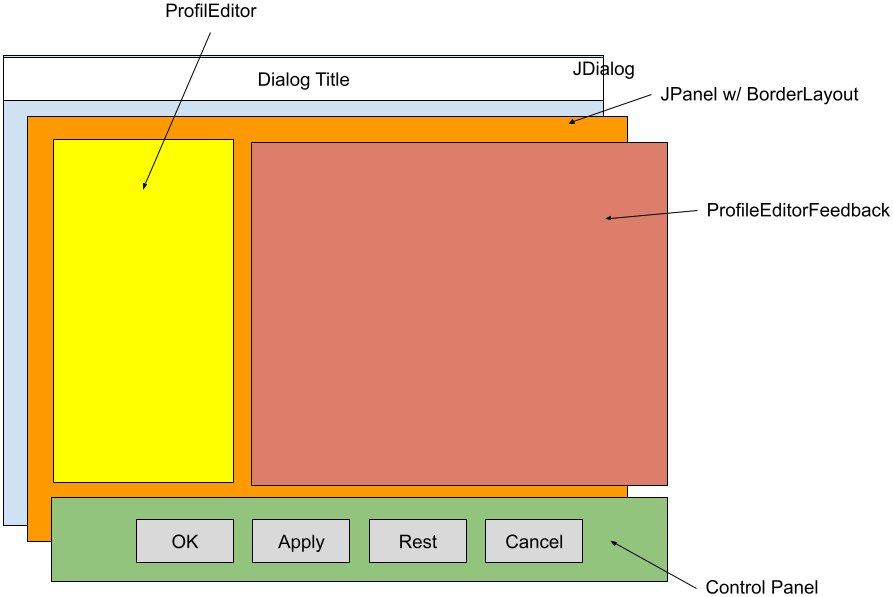
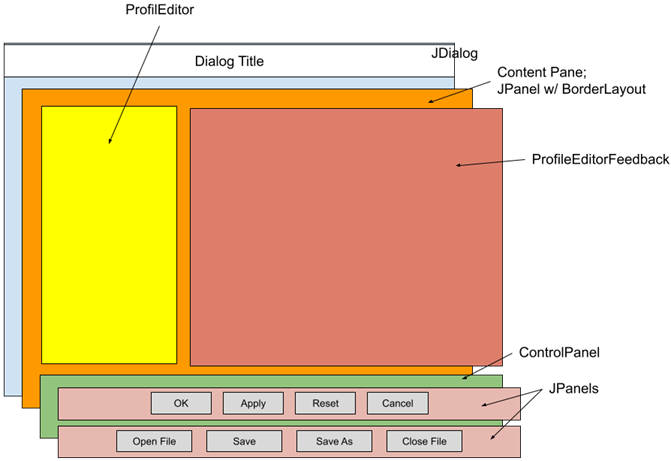
work on ProfileFileMangerTest

diff --git a/Cartesian Plane Part 18/src/main/java/com/acmemail/judah/cartesian_plane/components/ProfileEditorDialog.java b/Cartesian Plane Part 18/src/main/java/com/acmemail/judah/cartesian_plane/components/ProfileEditorDialog.java
@@ -134,7 +134,6 @@ public class ProfileEditorDialog extends JDialog
         cancel.addActionListener( e -> close( JOptionPane.CANCEL_OPTION ) );
         apply.addActionListener( e -> editor.apply() );
         reset.addActionListener( e -> resetProfile() );
-        reset.addActionListener( e -> canvas.repaint() );
 
         panel.add( okay );
         panel.add( apply );
@@ -142,17 +141,6 @@ public class ProfileEditorDialog extends JDialog
         panel.add( cancel );
 
         return panel;
-    }
-    
-    private void resetProfile()
-    {
-        Profile profile = editor.getProfile();
-        File    file    = fileMgr.getCurrFile();
-        if ( file != null )
-            fileMgr.open( file, profile );
-        else
-            profile.reset();
-        editor.reset();
     }
     
     private JPanel getOpenSavePanel()
@@ -168,10 +156,10 @@ public class ProfileEditorDialog extends JDialog
             if ( fileMgr.open( profile ) != null )
                 editor.reset();
         });
-        save.addActionListener( e -> {
-            fileMgr.save( editor.getProfile() );
-        });
-        save.addActionListener( e -> {
+        save.addActionListener( e -> 
+            fileMgr.save( editor.getProfile() )
+        );
+        saveAs.addActionListener( e -> {
             fileMgr.saveAs( editor.getProfile() );
         });
         close.addActionListener( e -> fileMgr.close() );
@@ -182,6 +170,17 @@ public class ProfileEditorDialog extends JDialog
         panel.add( close );
 
         return panel;
+    }
+    
+    private void resetProfile()
+    {
+        Profile profile = editor.getProfile();
+        File    file    = fileMgr.getCurrFile();
+        if ( file != null )
+            fileMgr.open( file, profile );
+        else
+            profile.reset();
+        editor.reset();
     }
     
     /**
